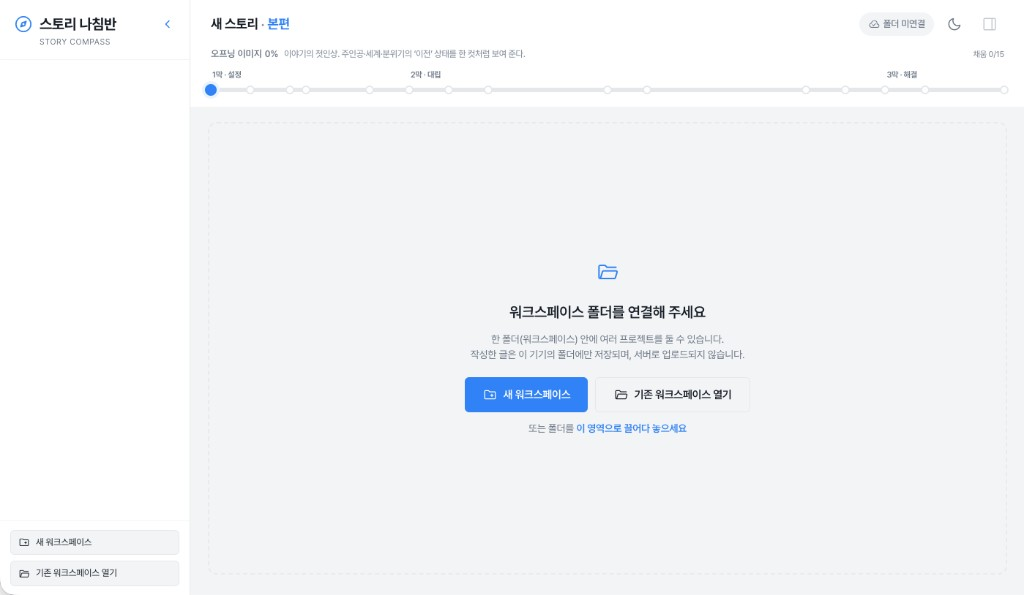
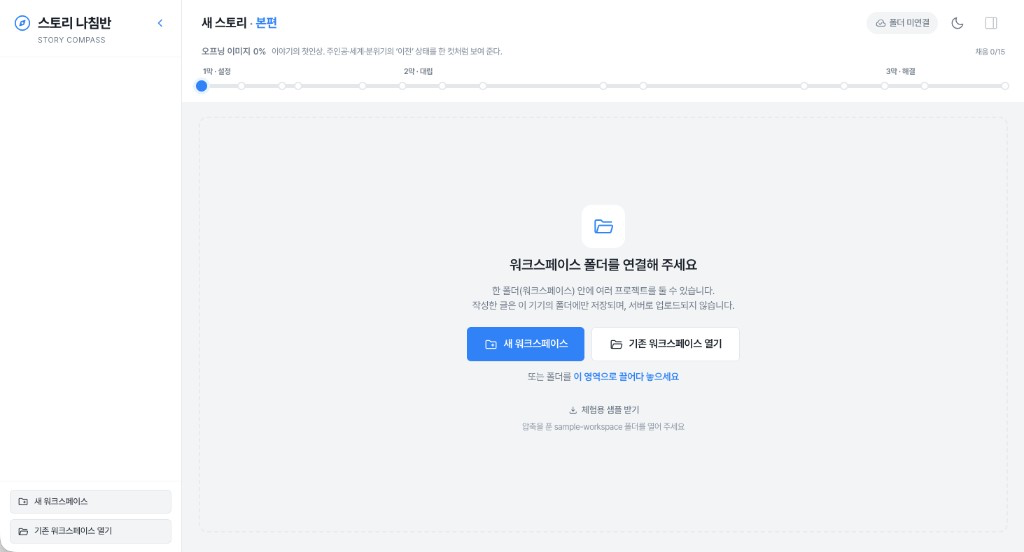
feat: 연결 안내에 체험용 샘플 받기 링크 추가

diff --git a/src/index.css b/src/index.css
@@ -1657,8 +1657,8 @@
   width: 64px;
   height: 64px;
   border-radius: 16px;
-  background: var(--surface-elevated);
-  border: 1px solid var(--border-subtle);
+  background: var(--bg-surface-elevated);
+  border: 1px solid var(--border-divider);
   display: flex;
   align-items: center;
   justify-content: center;
@@ -1710,8 +1710,63 @@
   justify-content: center;
 }
 
+.folder-connect-prompt__actions .btn-secondary {
+  background: var(--bg-surface);
+}
+
+.folder-connect-prompt__actions .btn-secondary:hover {
+  background: var(--hover-bg);
+}
+
 .folder-connect-prompt__cta .material-symbols-rounded {
   font-size: 20px;
+}
+
+.folder-connect-prompt__sample {
+  display: flex;
+  flex-direction: column;
+  align-items: center;
+  gap: 4px;
+  margin: 14px 0 0;
+}
+
+.folder-connect-prompt__sample-hint {
+  margin: 0;
+  font-size: 12px;
+  line-height: 1.5;
+  color: var(--text-tertiary);
+}
+
+.folder-connect-prompt__sample-link {
+  display: inline-flex;
+  align-items: center;
+  gap: 4px;
+  margin: 0;
+  padding: 2px 0;
+  border: none;
+  background: none;
+  color: var(--text-secondary);
+  font-size: 13px;
+  font-weight: 500;
+  line-height: 1.4;
+  text-decoration: none;
+  cursor: pointer;
+  transition: color 0.15s ease;
+}
+
+.folder-connect-prompt__sample-link .material-symbols-rounded {
+  font-size: 16px;
+  color: inherit;
+}
+
+.folder-connect-prompt__sample-link:hover {
+  color: var(--accent-blue);
+}
+
+.folder-connect-prompt__sample-link:focus-visible {
+  outline: 2px solid var(--accent-blue);
+  outline-offset: 3px;
+  border-radius: 4px;
 }
 
 .board {

diff --git a/src/components/FolderConnectPrompt.tsx b/src/components/FolderConnectPrompt.tsx
@@ -214,6 +214,24 @@ export function FolderConnectPrompt() {
               또는 폴더를 <strong>이 영역으로 끌어다 놓으세요</strong>
             </p>
           ) : null}
+
+          {canDrop ? (
+            <div className="folder-connect-prompt__sample">
+              <a
+                className="folder-connect-prompt__sample-link"
+                href="/sample-workspace.zip"
+                download="sample-workspace.zip"
+              >
+                <span className="material-symbols-rounded" aria-hidden>
+                  download
+                </span>
+                체험용 샘플 받기
+              </a>
+              <p className="folder-connect-prompt__sample-hint">
+                압축을 푼 sample-workspace 폴더를 열어 주세요
+              </p>
+            </div>
+          ) : null}
         </div>
       </div>
     </main>

diff --git a/docs/TRD.md b/docs/TRD.md
@@ -47,7 +47,7 @@ npm run build
 | 컴포넌트 | 역할 |
 |---|---|
 | `ExplorerSidebar` | 워크스페이스·프로젝트 트리·휴지통·폴더 연결 (CTA: 새 워크스페이스 / 기존 워크스페이스 열기) |
-| `FolderConnectPrompt` | 미연결 안내·CTA·**폴더 드래그앤드롭** 존 (`getAsFileSystemHandle`) |
+| `FolderConnectPrompt` | 미연결 안내·CTA(기존 열기는 표면 배경)·**폴더 드래그앤드롭**·하단 **체험용 샘플 받기** 텍스트 링크(`/sample-workspace.zip`) |
 | `TrashPanel` | 휴지통 목록(본문 미리보기)·정렬·복원·영구삭제·비우기 |
 | `Toast` | 복사·저장 등 짧은 피드백 — `.app-toast` 진한 알약형(불투명·`--shadow-md`) |
 | `RouteNav` | 제목·프로그레스·1·2·3막·마커 |
@@ -150,6 +150,7 @@ interface ReferenceNote { /* id, title, contentHtml, tags, order, createdAt, upd
 `storageMode`: `none` | `folder` (ZIP/`memory` 제거).
 
 체험용 샘플 데이터: 저장소 루트 [`sample-workspace/`](../sample-workspace/) (스키마 v2).  
+배포용 ZIP: [`public/sample-workspace.zip`](../public/sample-workspace.zip) — `npm run pack:sample`로 재생성.  
 미연결 시 피커 또는 연결 화면에 폴더 드롭으로 연다.
 
 참고↔씬 변환: `convertReferenceToScene` / `convertSceneToReference` / `copySceneToReference` / `copyReferenceToScene` ([`projectSlice.ts`](../src/store/projectSlice.ts)). 드래그 처리는 [`workspaceDrag.ts`](../src/utils/workspaceDrag.ts).

diff --git a/docs/SRS.md b/docs/SRS.md
@@ -62,7 +62,7 @@ Software Requirements Specification. **무엇을 반드시 만족하는지** 정
 - **제목·내용 모두 빈값 허용**. 제목 공백 시 빨간 안내만 표시(저장·자동저장은 계속). 리스트 카드는 제목 행 없이 본문 미리보기만(더 길게), 모달에는 제목 칸 유지
 - 저장: **워크스페이스 폴더**(내부에 여러 프로젝트). **LocalStorage에 노트 원본 저장 금지**
 - 폴더 연결 CTA: **새 워크스페이스** / **기존 워크스페이스 열기** / **폴더 드래그앤드롭**(Chrome·Edge, `getAsFileSystemHandle`)
-- 체험: 저장소 `sample-workspace/` 를 「기존 워크스페이스 열기」또는 연결 화면에 드롭
+- 체험: 연결 안내 하단 **체험용 샘플 받기** 텍스트 링크(`public/sample-workspace.zip`) → 압축 해제 후 sample-workspace 폴더를 「기존 워크스페이스 열기」또는 드롭. 레포의 `sample-workspace/` 도 동일
 - 참고↔칸반: 드래그로 **이동(변환)**, 케밥으로 **참고로 복사** / **칸반으로 복사**. 카드 호버 아이콘바(삭제·텍스트복사·케밥), 순서 메뉴는 맨위/맨아래만
 - 폴더 연결 시 변경 감지 **디바운스 자동 저장**(기본 500ms). 에디터 Undo와 독립
 - 한글 IME 조합 중 입력이 깨지지 않을 것

diff --git a/README.md b/README.md
@@ -24,7 +24,7 @@ Chrome 또는 Edge에서 여는 것을 권장합니다. (로컬 폴더 저장은
    또는 안내 화면에 **폴더를 끌어다 놓아** 연결할 수 있습니다.
 3. 브라우저가 폴더 접근을 물으면 **허용**합니다. (새로고침 후에도 이어서 쓰려면 권한이 필요합니다.)
 
-체험만 해 보려면 GitHub 저장소의 [`sample-workspace/`](sample-workspace/) 폴더를 「기존 워크스페이스 열기」또는 드롭으로 연결하세요. (`workspace.json`이 있는 폴더 루트를 고릅니다.)
+체험만 해 보려면 연결 안내의 **체험용 샘플 받기**로 ZIP을 내려받아 푼 뒤, sample-workspace 폴더를 「기존 워크스페이스 열기」또는 드롭으로 연결하세요. 레포의 [`sample-workspace/`](sample-workspace/)를 그대로 연결해도 됩니다.
 
 ![워크스페이스 폴더 연결](docs/screenshots/01-connect-workspace.png)
 
@@ -110,6 +110,7 @@ npm run build
 ### 샘플 데이터
 
 [`sample-workspace/`](sample-workspace/) — 「밤기차의 손님」(본편)·「짧은 스케치」(전환 체험).  
+배포용 ZIP: [`public/sample-workspace.zip`](public/sample-workspace.zip) (`npm run pack:sample`).  
 자세한 트리: [`sample-workspace/README.md`](sample-workspace/README.md).
 
 ### 폴더 구조 (워크스페이스)

diff --git a/sample-workspace/README.md b/sample-workspace/README.md
@@ -27,12 +27,14 @@ sample-workspace/          ← 여기를 연결
 
 ## 여는 방법
 
-1. `npm run dev` 후 Chrome/Edge
-2. **기존 워크스페이스 열기**로 이 폴더를 선택하거나, 연결 안내 화면에 **폴더를 끌어다 놓기**
+1. 앱 연결 안내에서 **체험용 샘플 받기**로 ZIP을 받거나, 이 폴더를 그대로 사용
+2. Chrome/Edge에서 **기존 워크스페이스 열기**로 이 폴더를 선택하거나, 연결 안내 화면에 **폴더를 끌어다 놓기**
 3. 사이드바에서 「밤기차의 손님」·「짧은 스케치」 전환
+
+배포용 ZIP은 `public/sample-workspace.zip`이며, 샘플을 수정한 뒤 `npm run pack:sample`로 다시 만듭니다.
 
 「밤기차의 손님」 본편은 15비트(오프닝~파이널) 샘플 씬이 채워져 있습니다.  
 「짧은 스케치」는 DnD·필터 체험용으로 앞쪽 비트만 있습니다.
 
-`projects` 하위가 아니라 **`workspace.json`이 있는 이 루트**를 연결하세요.  
+`projects` 하위가 아니라 **이 폴더 자체**를 연결하세요.  
 브라우저 보안상 경로를 자동으로 열 수는 없습니다.

diff --git a/docs/troubleshooting.md b/docs/troubleshooting.md
@@ -297,8 +297,9 @@ rm -rf node_modules/.vite && npm run dev
 
 ### 체험용 샘플
 
-레포의 `sample-workspace/` 는 위 형식의 정상 예시이다.  
-**`sample-workspace` 루트**를 「기존 워크스페이스 열기」로 선택하거나, 연결 안내 화면에 **폴더를 드래그앤드롭**해도 된다.
+레포의 `sample-workspace/` 는 위 형식의 정상 예시이다.
+앱 연결 안내 하단 **체험용 샘플 받기** 텍스트 링크(`public/sample-workspace.zip`)로도 받을 수 있다. (`npm run pack:sample`로 ZIP 재생성)
+**sample-workspace** 폴더를 「기존 워크스페이스 열기」로 선택하거나, 연결 안내 화면에 **폴더를 드래그앤드롭**해도 된다.
 
 ### 관련 파일
 

diff --git a/docs/prompt-log.md b/docs/prompt-log.md
@@ -258,3 +258,8 @@
 
 - **요청:** 워크스페이스 폴더를 화면에 드롭해 연결, 가능함이 보이는 UI·드롭 중 피드백
 - **대응:** `connectWorkspaceFromHandle`, FolderConnectPrompt 드롭존/오버레이, 토스트·문서 안내
+
+### 2026-08-02 — 샘플 워크스페이스 다운로드
+
+- **요청:** 연결 안내에 샘플 워크스페이스 다운로드·안내, 배치·링크 톤 조정
+- **대응:** `public/sample-workspace.zip`, 「체험용 샘플 받기」텍스트 링크+2줄 안내, 기존 열기 표면 배경, `pack:sample`, 문서 현행화

diff --git a/docs/agent-worklog.md b/docs/agent-worklog.md
@@ -339,3 +339,9 @@
 - 변경: `sceneHasManuscriptContent` 가드, 미사용 `safeFilename` 제거, SRS §6 시나리오·TRD/AGENTS
 - 명령: typecheck·build 통과
 - 판정: 채택
+
+### 2026-08-02 — 샘플 워크스페이스 다운로드 CTA
+
+- 목적: 미연결 화면에서 체험용 샘플을 바로 받을 수 있게
+- 변경: `public/sample-workspace.zip`, FolderConnectPrompt 「체험용 샘플 받기」텍스트 링크·2줄 안내, 기존 열기 CTA 표면 배경, `pack:sample`, SRS/TRD/README/troubleshooting, 연결 화면 스크린샷 갱신
+- 판정: 채택

diff --git a/AGENTS.md b/AGENTS.md
@@ -107,3 +107,5 @@
 - 점검: 빈 원고 헤더만 내보내기 가드·미사용 safeFilename 제거·SRS 검증 시나리오
 - README: 배포 URL·사용자 사용 안내 추가, 라이선스 절 제거
 - README: 화면 스크린샷(연결·칸반·참고·편집·원고) 첨부
+- 연결 안내: 체험용 샘플 받기 텍스트 링크·안내 (`public/sample-workspace.zip`, pack:sample), 기존 열기 CTA 표면 배경
+- README: 연결 화면 스크린샷(`01-connect-workspace`) 갱신
